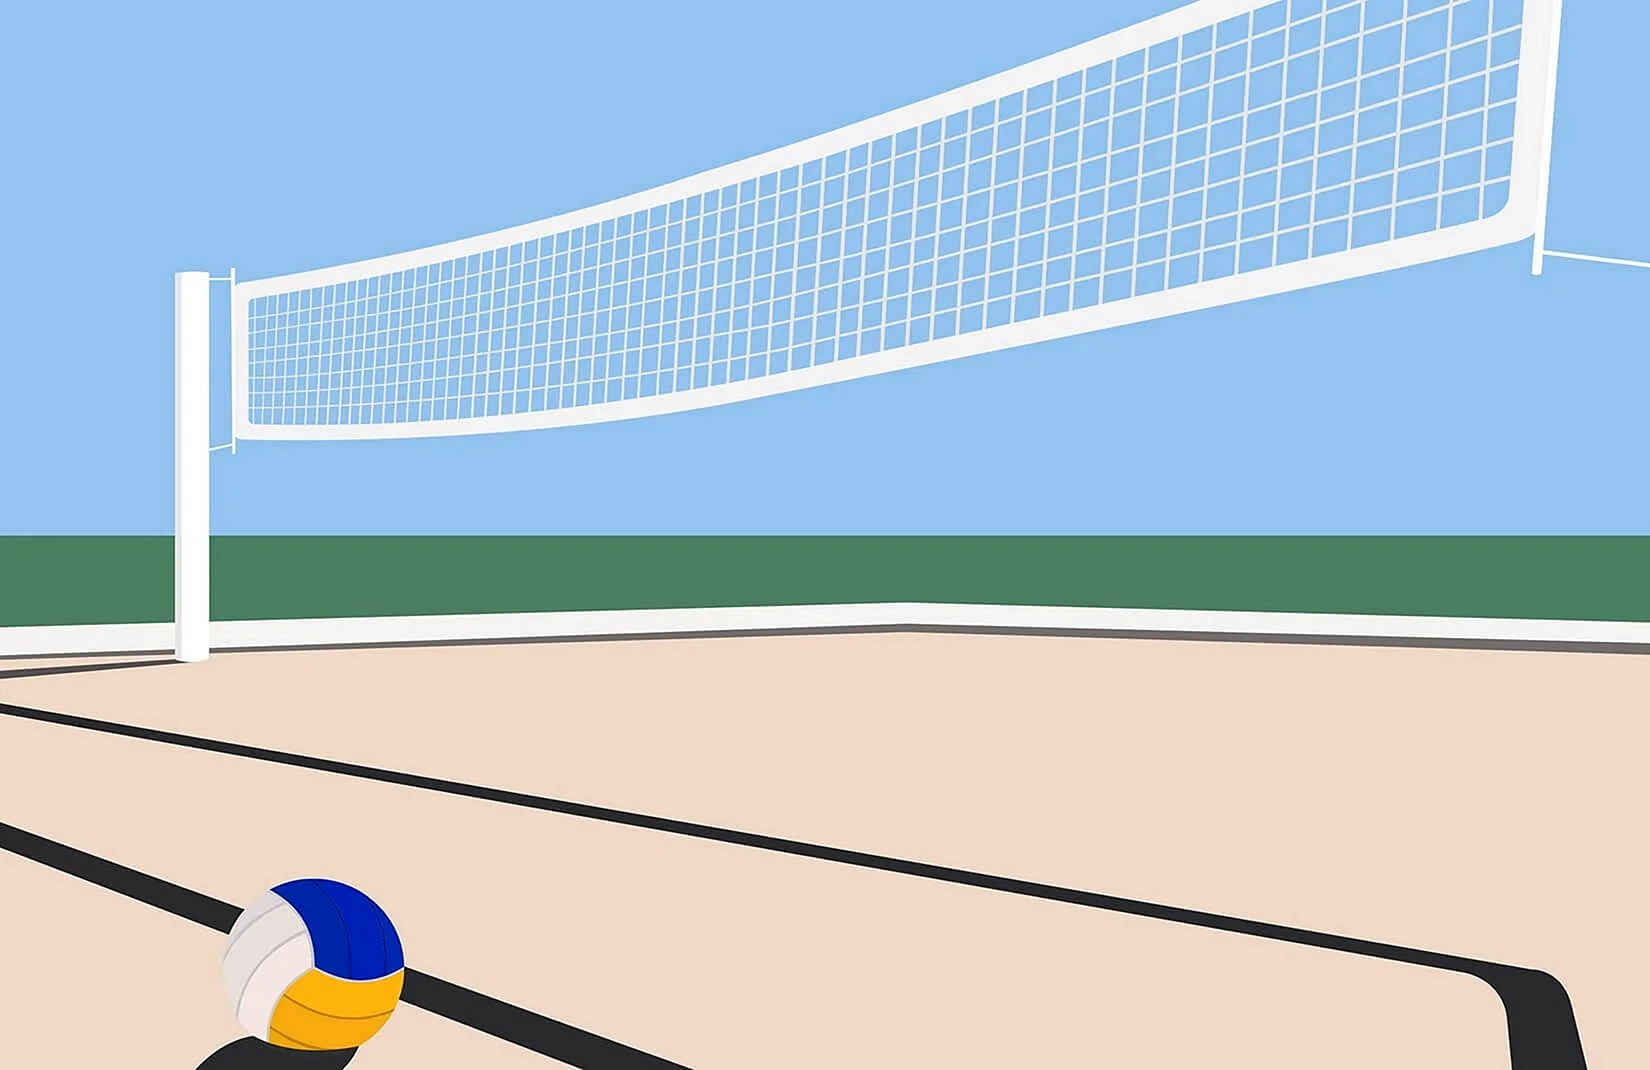
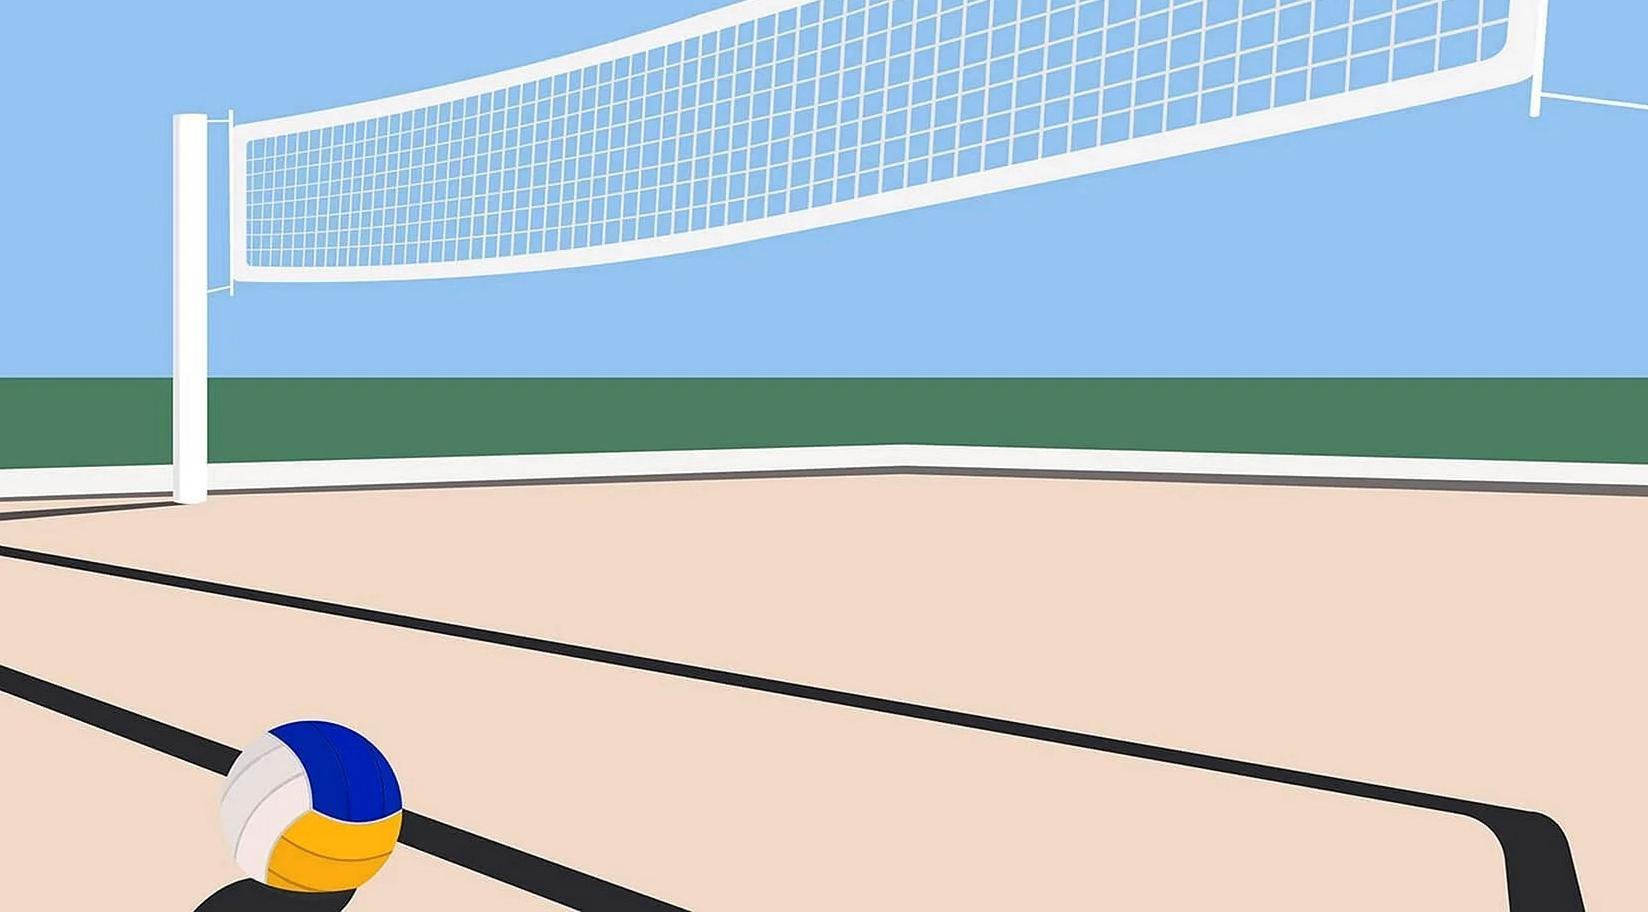
textbuttons on screenintro

diff --git a/core/src/ru/myitschool/volleyball/MyGdx.java b/core/src/ru/myitschool/volleyball/MyGdx.java
@@ -1,9 +1,12 @@
 package ru.myitschool.volleyball;
 
 import com.badlogic.gdx.Game;
+import com.badlogic.gdx.Gdx;
+import com.badlogic.gdx.graphics.Color;
 import com.badlogic.gdx.graphics.OrthographicCamera;
 import com.badlogic.gdx.graphics.g2d.BitmapFont;
 import com.badlogic.gdx.graphics.g2d.SpriteBatch;
+import com.badlogic.gdx.graphics.g2d.freetype.FreeTypeFontGenerator;
 import com.badlogic.gdx.math.Vector2;
 import com.badlogic.gdx.math.Vector3;
 import com.badlogic.gdx.physics.box2d.Box2D;
@@ -11,9 +14,10 @@ import com.badlogic.gdx.physics.box2d.Box2DDebugRenderer;
 import com.badlogic.gdx.physics.box2d.World;
 
 public class MyGdx extends Game {
-	public static final float SCR_WIDTH = 19.2f, SCR_HEIGHT = 10.8f;
+	public static final float SCR_WIDTH = 12.8f, SCR_HEIGHT = 7.2f;
 	SpriteBatch batch;
 	OrthographicCamera camera;
+	OrthographicCamera camera2;
 	World world;
 	Box2DDebugRenderer debugRenderer;
 	Vector3 touch;
@@ -29,17 +33,20 @@ public class MyGdx extends Game {
 		// создание системных объектов
 		batch = new SpriteBatch();
 		camera = new OrthographicCamera();
+		camera2 = new OrthographicCamera();
 		camera.setToOrtho(false, SCR_WIDTH, SCR_HEIGHT);
+		camera2.setToOrtho(false, SCR_WIDTH*100, SCR_HEIGHT*100);
 		world = new World(new Vector2(0, -10), false);
 		touch = new Vector3();
 		Box2D.init();
 		debugRenderer = new Box2DDebugRenderer();
 
+		generateFont();
 		screenIntro = new ScreenIntro(this);
 		screenGame = new ScreenGame(this);
 		screenSettings = new ScreenSettings(this);
 		screenAbout = new ScreenAbout(this);
-		setScreen(screenGame);
+		setScreen(screenIntro);
 	}
 
 	@Override
@@ -48,6 +55,28 @@ public class MyGdx extends Game {
 		font.dispose();
 		fontLarge.dispose();
 	}
+
+	void generateFont(){
+		FreeTypeFontGenerator generator = new FreeTypeFontGenerator(Gdx.files.internal("classicfont.otf"));
+		FreeTypeFontGenerator.FreeTypeFontParameter parameter = new FreeTypeFontGenerator.FreeTypeFontParameter();
+		parameter.color = new Color(1, 0.8f, 0.4f, 1);
+		parameter.size = 45;
+		parameter.borderColor = Color.BLACK;
+		parameter.borderWidth = 2;
+		parameter.borderStraight = true;
+		parameter.shadowColor = new Color(0.1f, 0.1f, 0.1f, 0.8f);
+		parameter.shadowOffsetX = parameter.shadowOffsetY = 3;
+		String str = "";
+		for (char i = 0x20; i < 0x7B; i++) str += i;
+		for (char i = 0x401; i < 0x452; i++) str += i;
+		parameter.characters = str;
+		//parameter.characters = "абвгдеёжзийклмнопрстуфхцчшщъыьэюяabcdefghijklmnopqrstuvwxyzАБВГДЕЁЖЗИЙКЛМНОПРСТУФХЦЧШЩЪЫЬЭЮЯABCDEFGHIJKLMNOPQRSTUVWXYZ0123456789][_!$%#@|\\/?-+=()*&.;:,{}\"´`'<>";
+		font = generator.generateFont(parameter);
+		parameter.size = 60;
+		fontLarge = generator.generateFont(parameter);
+		generator.dispose();
+	}
+
 
 }
 

diff --git a/core/src/ru/myitschool/volleyball/ScreenIntro.java b/core/src/ru/myitschool/volleyball/ScreenIntro.java
@@ -1,5 +1,8 @@
 package ru.myitschool.volleyball;
 
+import static ru.myitschool.volleyball.MyGdx.SCR_HEIGHT;
+import static ru.myitschool.volleyball.MyGdx.SCR_WIDTH;
+
 import com.badlogic.gdx.Screen;
 import com.badlogic.gdx.graphics.Texture;
 
@@ -11,7 +14,10 @@ public class ScreenIntro implements Screen {
     public ScreenIntro(MyGdx myGdx) {
         gdx = myGdx;
         imgBackGround = new Texture("background.jpg");
-
+        btnPlay = new TextButton(gdx.fontLarge, "PLAY", 550);
+        btnSettings = new TextButton(gdx.fontLarge, "SETTINGS", 450);
+        btnAbout = new TextButton(gdx.fontLarge, "ABOUT", 350);
+        btnExit = new TextButton(gdx.fontLarge, "EXIT", 250);
     }
 
     @Override
@@ -26,7 +32,14 @@ public class ScreenIntro implements Screen {
         gdx.camera.update();
         gdx.batch.setProjectionMatrix(gdx.camera.combined);
         gdx.batch.begin();
-
+        gdx.batch.draw(imgBackGround, 0, 0, SCR_WIDTH, SCR_HEIGHT);
+        gdx.batch.end();
+        gdx.batch.setProjectionMatrix(gdx.camera2.combined);
+        gdx.batch.begin();
+        btnPlay.font.draw(gdx.batch, btnPlay.text, btnPlay.x, btnPlay.y);
+        btnSettings.font.draw(gdx.batch, btnSettings.text, btnSettings.x, btnSettings.y);
+        btnAbout.font.draw(gdx.batch, btnAbout.text, btnAbout.x, btnAbout.y);
+        btnExit.font.draw(gdx.batch, btnExit.text, btnExit.x, btnExit.y);
         gdx.batch.end();
     }
 

diff --git a/core/src/ru/myitschool/volleyball/TextButton.java b/core/src/ru/myitschool/volleyball/TextButton.java
@@ -28,14 +28,14 @@ public class TextButton {
         GlyphLayout gl = new GlyphLayout(font, text);
         width = gl.width;
         height = gl.height;
-        this.x = SCR_WIDTH/2f - width/2;
+        this.x = SCR_WIDTH*100/2f - width/2;
     }
 
     public void setText(String text) {
         this.text = text;
         GlyphLayout gl = new GlyphLayout(font, text);
         width = gl.width;
-        this.x = SCR_WIDTH/2f - width/2;
+        this.x = SCR_WIDTH*100/2f - width/2;
     }
 
     boolean hit(float tx, float ty){
